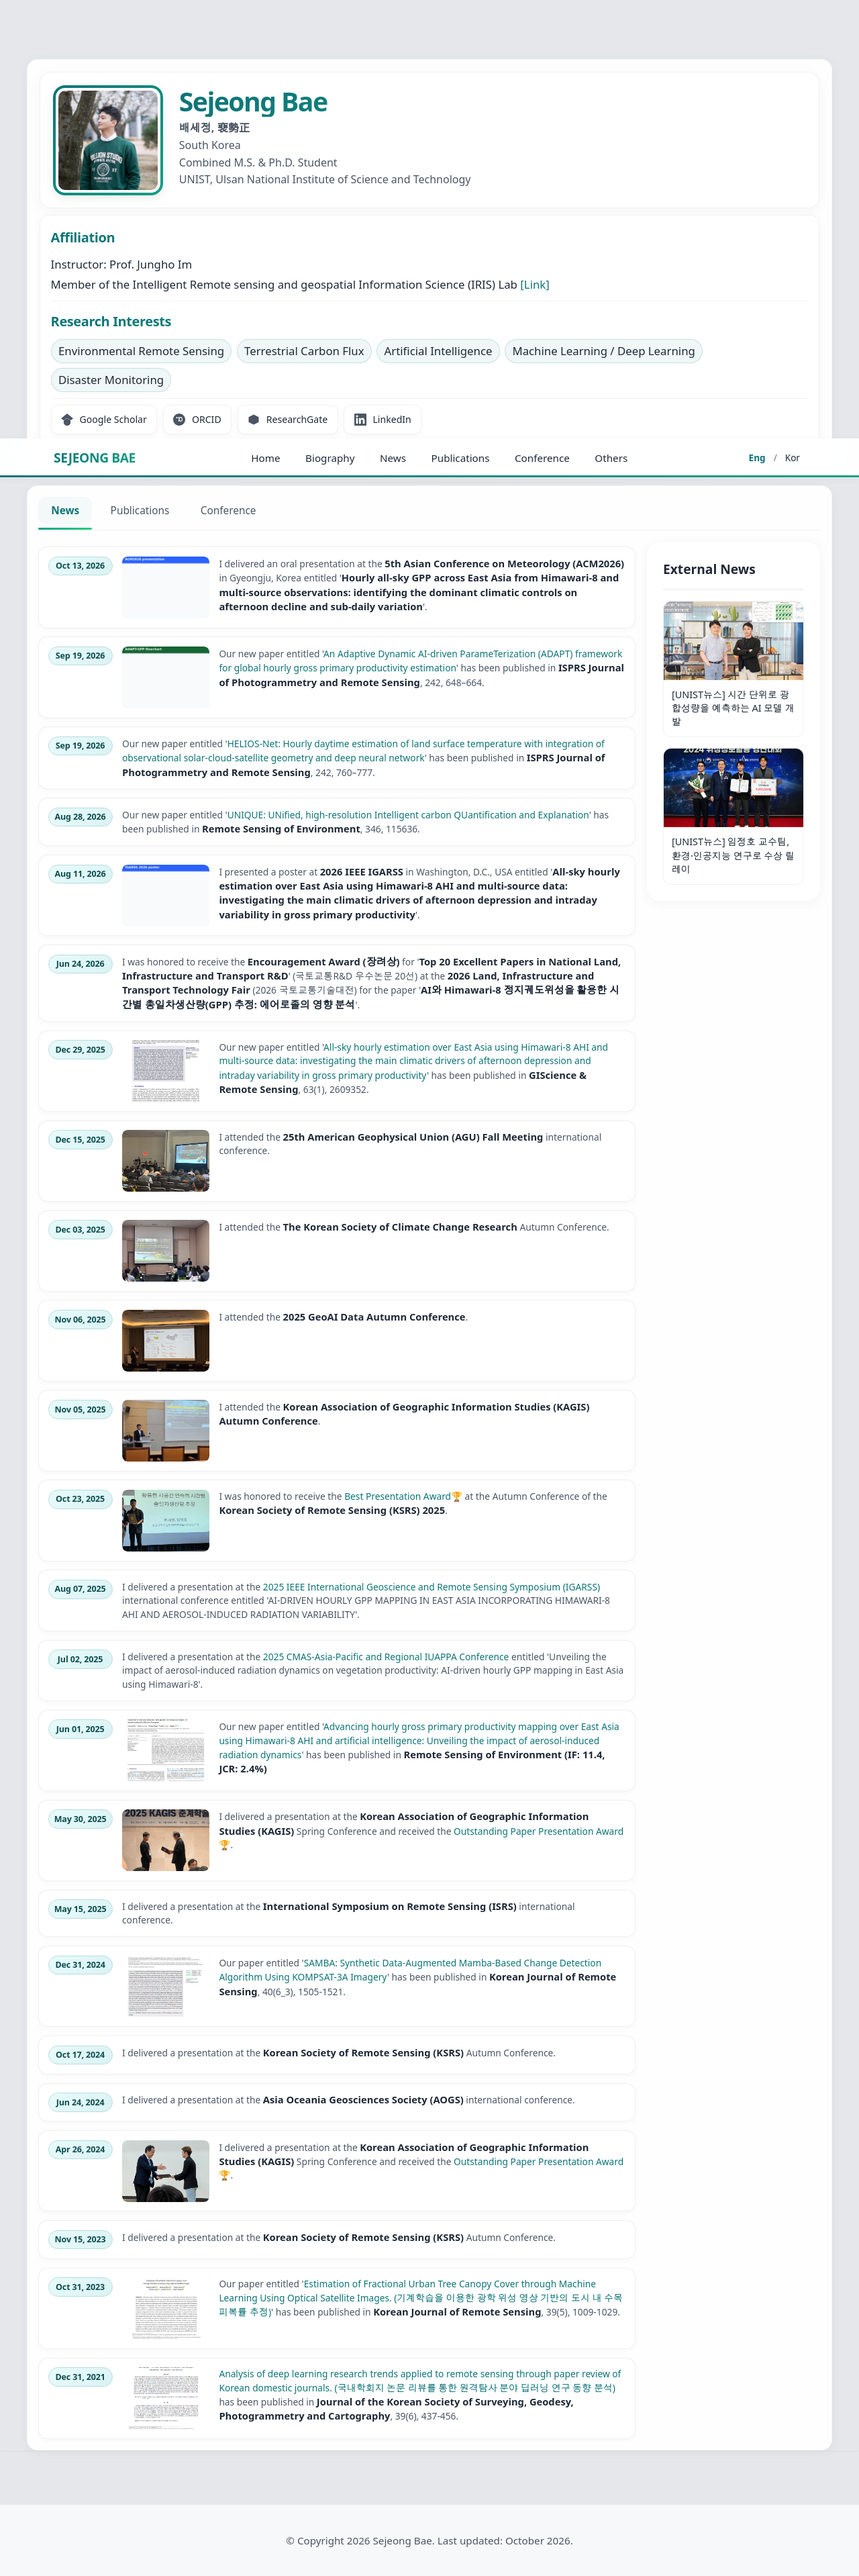
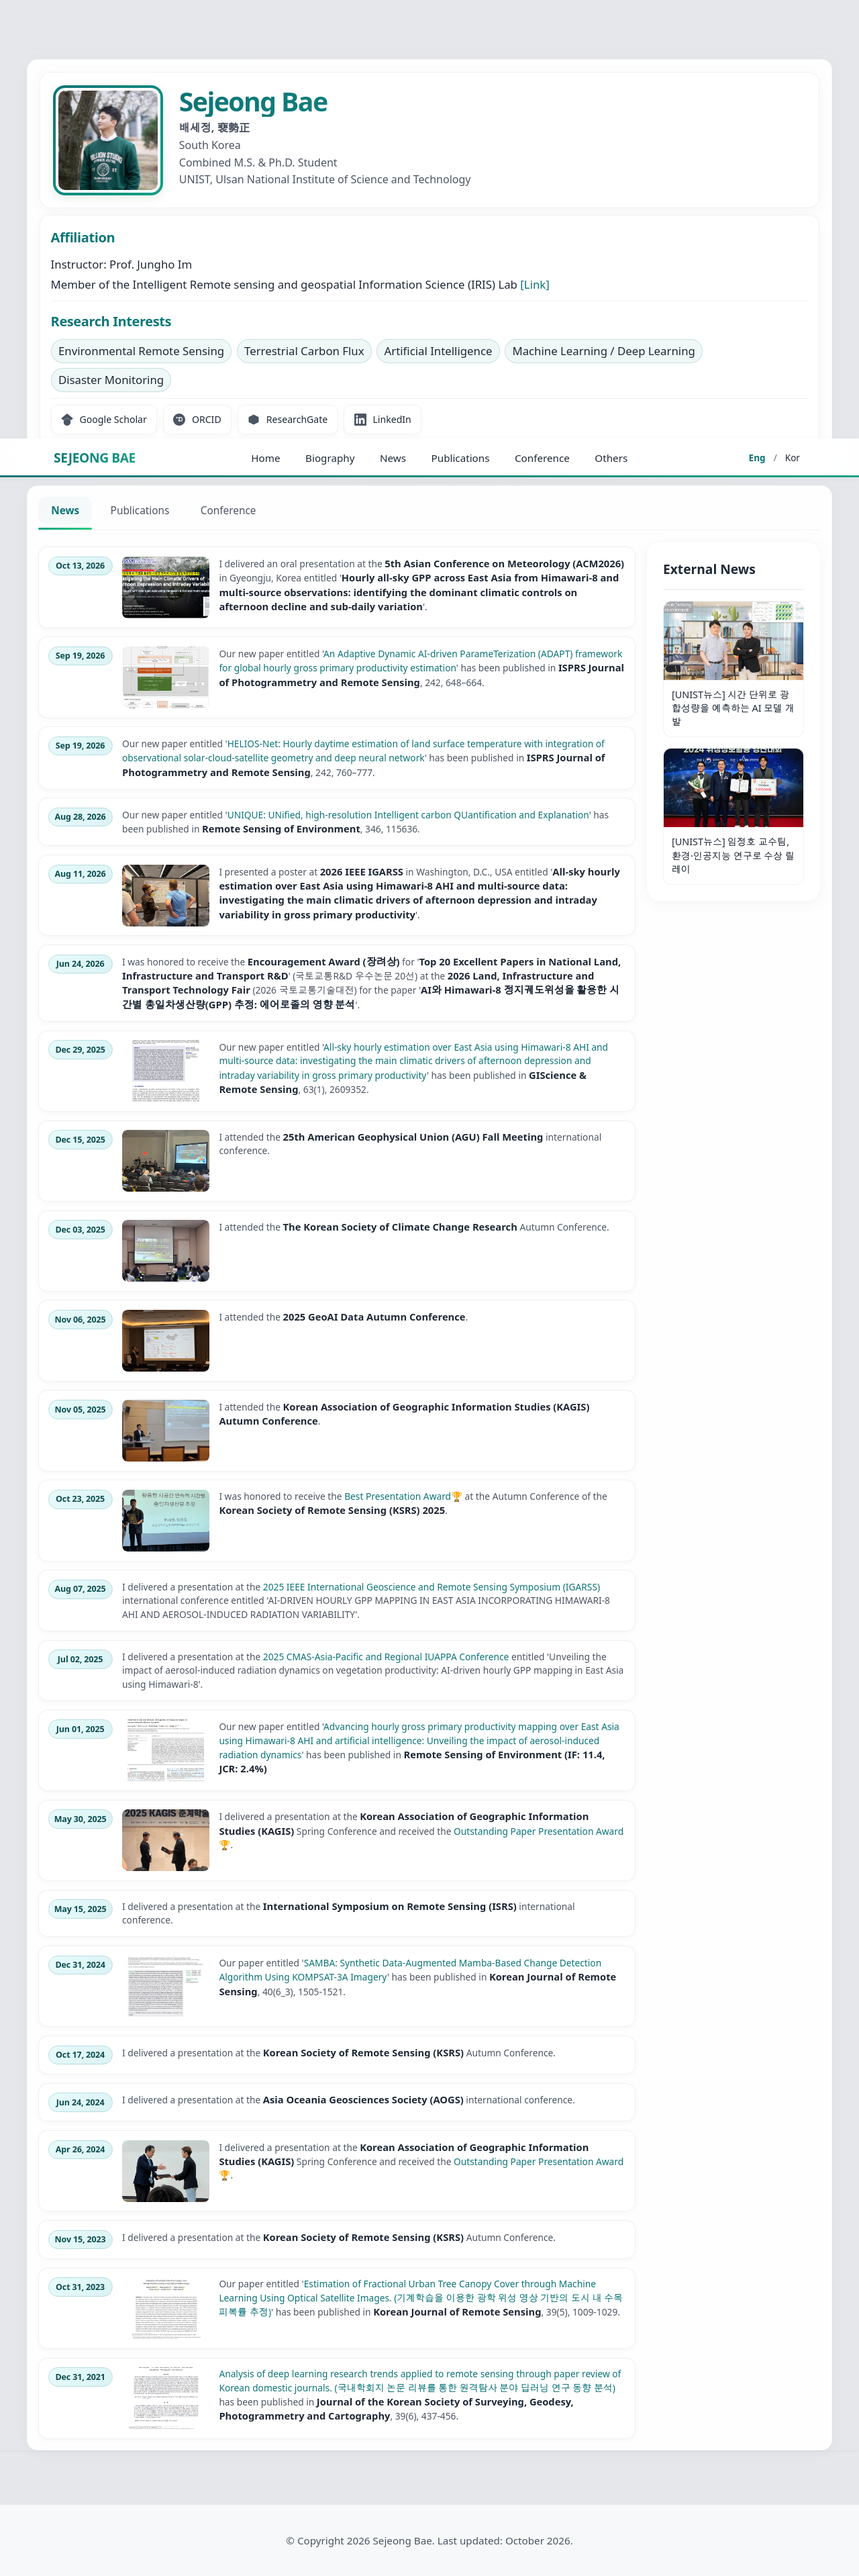
Replace news placeholders with user photos; drop HELIOS/UNIQUE cover art
- Import resized photos from news-photos/ (ACM, IGARSS, ADAPT flowchart/cover)
- Remove generated ISPRS/RSE cover placeholders; optional publication images
- Fix import script for large PNGs and RGBA; relax validate for optional covers

Changed region(s): [[0.125, 0.2171, 0.25, 0.2791], [0.125, 0.3101, 0.25, 0.3722]]

diff --git a/data/site-data.js b/data/site-data.js
@@ -42,8 +42,6 @@ const SITE_DATA = {
       {
         id: 'pub-helios-isprs-2026',
         year: 2026,
-        image: 'news/isprs_helios_cover.png',
-        imageAlt: 'HELIOS-Net land surface temperature paper',
         doi: 'https://doi.org/10.1016/j.isprsjprs.2026.09.028',
         authorsHtml:
           'Kim, Y., Cho, D., Bae, D., Lee, Y., Lee, S., <u>Bae, S</u>., & Im, J. (2026)',
@@ -54,8 +52,6 @@ const SITE_DATA = {
       {
         id: 'pub-unique-rse-2026',
         year: 2026,
-        image: 'news/rse_unique346_cover.png',
-        imageAlt: 'UNIQUE carbon quantification paper',
         doi: 'https://doi.org/10.1016/j.rse.2026.115636',
         authorsHtml:
           'Son, B., Sung, T., <u>Bae, S</u>., Choo, M., Im, J., Lee, Y., Rana, S. M. S., Cho, D., Yoo, C., Hong, J., Lee, H., & Kim, H. S. (2026)',

diff --git a/js/site-render.js b/js/site-render.js
@@ -37,7 +37,7 @@
   function buildPublishedPaper(pub, index, options) {
     const showIndex = options.showIndex !== false;
     const li = document.createElement('li');
-    li.className = 'publication-card';
+    li.className = pub.image ? 'publication-card' : 'publication-card publication-card--no-cover';
 
     const inner = document.createElement('div');
     inner.className = 'publication-card-inner';

diff --git a/scripts/validate-site-data.js b/scripts/validate-site-data.js
@@ -50,9 +50,8 @@ function main() {
   ['international', 'domestic'].forEach((section) => {
     (data.publications[section] || []).forEach((p) => {
       remember(p.id, section);
-      assert(p.image, `${p.id}: published paper must have image`);
       assert(p.title, `${p.id}: title required`);
-      checkImage(p.image, errors);
+      if (p.image) checkImage(p.image, errors);
     });
   });
 

diff --git a/style.css b/style.css
@@ -1278,6 +1278,14 @@ body {
     color: inherit;
 }
 
+.publication-card--no-cover .publication-card-inner {
+    gap: 0;
+}
+
+.publication-card--no-cover .published-paper {
+    width: 100%;
+}
+
 .publication-thumb {
     flex-shrink: 0;
     width: 200px;

diff --git a/scripts/import-news-photos.py b/scripts/import-news-photos.py
@@ -7,6 +7,9 @@ from pathlib import Path
 
 from PIL import Image
 
+# Scientific figures/photos may exceed PIL's default decompression bomb threshold.
+Image.MAX_IMAGE_PIXELS = None
+
 ROOT = Path(__file__).resolve().parents[1]
 SRC_DIR = ROOT / "news-photos"
 DEST_DIR = ROOT / "news"
@@ -35,7 +38,19 @@ def save_optimized(img: Image.Image, dest: Path) -> None:
 
 
 def process(src: Path, dest: Path) -> None:
-    img = Image.open(src).convert("RGB")
+    img = Image.open(src)
+    if dest.suffix.lower() == ".png" and img.mode in ("RGBA", "LA", "P"):
+        if img.mode == "P":
+            img = img.convert("RGBA")
+        w, h = img.size
+        if w > MAX_WIDTH:
+            nh = int(h * (MAX_WIDTH / w))
+            img = img.resize((MAX_WIDTH, nh), Image.Resampling.LANCZOS)
+        dest.parent.mkdir(parents=True, exist_ok=True)
+        img.save(dest, "PNG", optimize=True)
+        print(f"Wrote {dest} ({dest.stat().st_size} bytes)")
+        return
+    img = img.convert("RGB")
     w, h = img.size
     if w > MAX_WIDTH:
         nh = int(h * (MAX_WIDTH / w))

diff --git a/scripts/generate-publication-covers.py b/scripts/generate-publication-covers.py
@@ -60,21 +60,8 @@ def adapt_cover(path: Path) -> None:
 
 
 def main() -> None:
-    adapt_path = NEWS / "adapt_gpp_cover.png"
-    if not adapt_path.is_file():
-        adapt_cover(adapt_path)
-    cover(
-        "HELIOS-Net: Hourly daytime LST estimation",
-        "ISPRS J. Photogramm. Remote Sens.",
-        (0, 102, 153),
-        NEWS / "isprs_helios_cover.png",
-    )
-    cover(
-        "UNIQUE: Intelligent carbon quantification",
-        "Remote Sensing of Environment",
-        (0, 82, 147),
-        NEWS / "rse_unique346_cover.png",
-    )
+    print("No-op: add real images via news-photos/ and scripts/import-news-photos.py")
+    print("Omit publication image in site-data.js when no cover is available.")
 
 
 if __name__ == "__main__":

diff --git a/UPDATING.md b/UPDATING.md
@@ -22,7 +22,7 @@ External news sidebar: `external-news-data.js` (unchanged).
 ## Add a published paper
 
 1. Add an object to `publications.international` or `publications.domestic` with a unique `id`.
-2. Set **`image`** to a path under `news/` (required for published entries).
+2. Set **`image`** to a path under `news/` when you have a cover thumbnail (optional; text-only cards use the same layout without a thumbnail).
 3. Add a matching row to `about.cvPublications` if it should appear on the Biography page.
 4. Optional: add a `news[]` item when you announce it.
 
@@ -53,12 +53,8 @@ This resizes into `news/` (max width 1600px, target &lt;500KB).
 ## Publication cover images
 
 - Put thumbnails in `news/` (e.g. `news/adapt_gpp_cover.png`).
-- Every **published** paper must have `image` set.
-- Regenerate placeholder ISPRS/RSE covers if needed:
-
-```bash
-python3 scripts/generate-publication-covers.py
-```
+- If `image` is set, the file must exist under the repo root (usually `news/`).
+- Do not commit generated placeholder art for missing journal covers; omit `image` instead.
 
 ## Validate before commit
 
